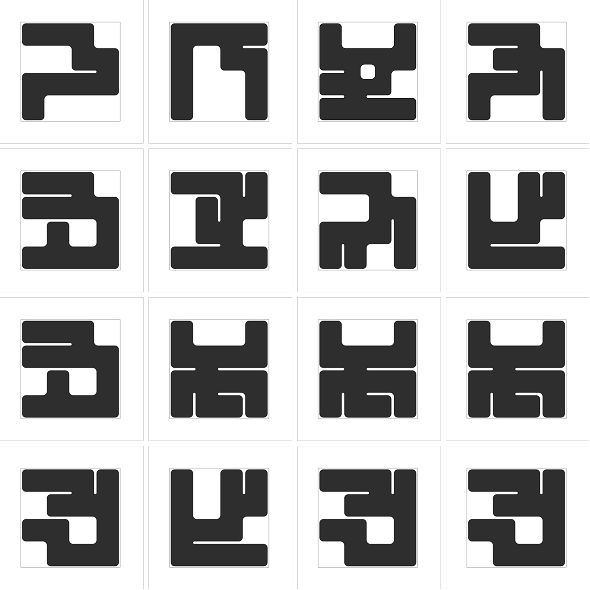
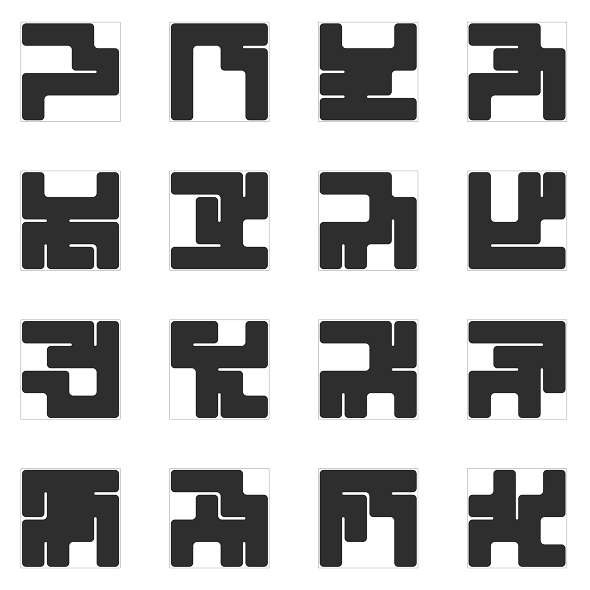
UPDATE PROJECY
UPDATE

diff --git a/projects-config.js b/projects-config.js
@@ -5,10 +5,10 @@
 const projectsConfig = [
     {
         id: 'project-01',
-        title: 'Project 01',
-        description: 'Placeholder description text for project one',
+        title: 'Beyond Optimization',
+        description: 'Shape Grammars and Population-Thinking',
         coverImage: 'docs/project-01/cover.png', // Falls back to cover.svg if PNG doesn't exist
-        tags: ['UI/UX', 'Architecture'],
+        tags: ['Pattern Language', 'Architecture'],
         visible: true
     },
     {

diff --git a/docs/project-01/index.md b/docs/project-01/index.md
@@ -3,7 +3,7 @@
 
 
 <div class="img-placeholder-1col">
-<!-- <img src="docs/project-01/cover.png" alt="Project overview"> -->
+<img src="docs/project-01/ShapeGrammar 06.png" alt="Project overview">
 </div>
 
 ## Overview
@@ -18,7 +18,12 @@ Most generative systems today rely on optimization: a fitness function, an objec
 
 This exploration intentionally avoids fitness functions and predefined objectives. Instead of identifying optimal solutions, the system examines the generative capacity of rule-based grammars to produce diverse populations of forms. The focus shifts from individual outcomes to the structural and relational properties of the population as a whole —not problem solving but exploratory inquiry.
 
-I explore this question in more depth in a longer ->  <a href="#" class="medium-link">Medium article.</a> 
+I explore this question in more depth in a longer ->  <a href="https://medium.com/@cheng.cesar/beyond-optimization-628db9319a34?postPublishedType=repub" 
+class="medium-link">Medium article.</a> 
+
+<div class="img-placeholder-1col">
+<img src="docs/project-01/ShapeGrammar 05.png" alt="Project overview">
+</div>
 
 ## Key Ideas Explored
 
@@ -27,15 +32,24 @@ I explore this question in more depth in a longer ->  <a href="#" class="medium-
 - **Potentiality vs. Actualization (Aristotle)** — Forms as carriers of latent capacities activated by context
 - **Information Entropy (Claude Shannon)** — Diversity measured as informational richness; high-entropy populations preserve optionality and future relevance
 
+<div class="img-placeholder-1col">
+<img src="docs/project-01/ShapeGrammar 07.png" alt="Project overview">
+</div>
+
 
 <div class="img-placeholder-2col">
-<img src= "docs/project-01/project-03.png" alt="Technology visualization 1">
-<img src=  "docs/project-01/project-03.png" alt="Technology visualization 2">
+<img src= "docs/project-01/ShapeGrammar 03.png" alt="Technology visualization 1">
+<img src=  "docs/project-01/ShapeGrammar 04.png" alt="Technology visualization 2">
 </div>
 
 ## Method
 
 Rule-based shape grammars generate diverse populations of geometric forms. No fitness functions or performance metrics are applied. The focus is on population structure, entropy, and emergent relevance rather than convergence.
+
+<div class="img-placeholder-1col">
+<img src="docs/project-01/ShapeGrammar 09.png" alt="Project overview">
+</div>
+
 
 ## Closing Thoughts
 
